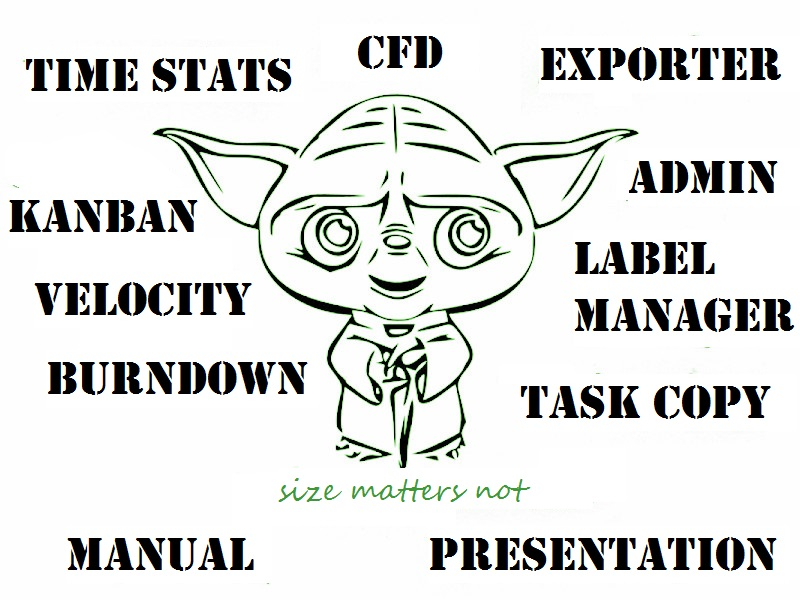
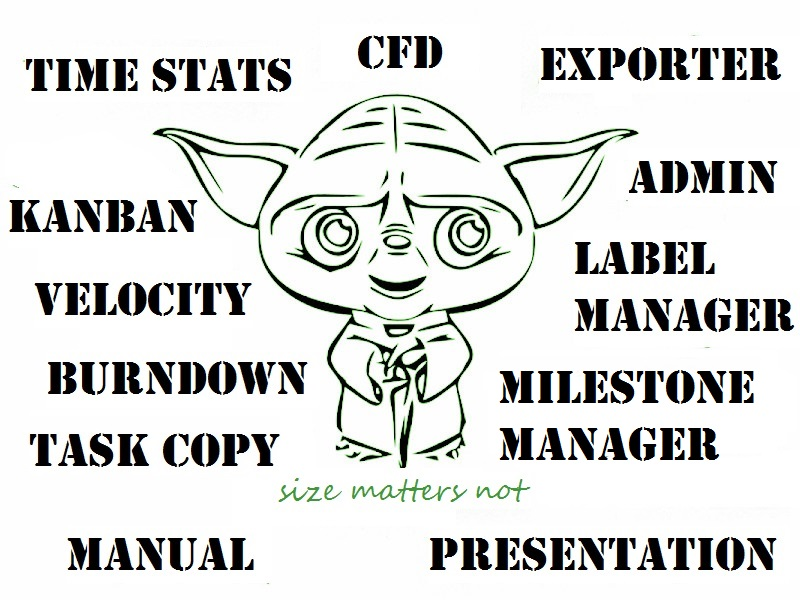
#5 Add milestone manager to landing page, menu, manual

Changed region(s): [[0.625, 0.6, 0.9688, 0.78], [0.0312, 0.72, 0.3438, 0.78]]

diff --git a/docs/index.html b/docs/index.html
@@ -37,9 +37,10 @@ OR IN CONNECTION WITH THE SOFTWARE OR THE USE OR OTHER DEALINGS IN THE SOFTWARE.
     <area alt="" title="Time Stats" href="yoda-time-stats.html" shape="rect" coords="18,40,281,112" />
     <area alt="" title="CFD" href="yoda-cfd.html" shape="rect" coords="312,12,479,84" />
     <area alt="" title="Label Manager" href="yoda-label-manager.html" shape="rect" coords="568,230,793,352" />
+    <area alt="" title="Milestone Manager" href="yoda-milestone-manager.html" shape="rect" coords="497,359,766,473" />
     <area alt="" title="Velocity" href="yoda-velocity.html" shape="rect" coords="29,274,254,325" />
     <area alt="" title="Exporter" href="yoda-exporter.html" shape="rect" coords="527,30,769,108" />
-    <area alt="" title="Task Copy" href="yoda-copy-tasks.html" shape="rect" coords="503,357,800,449" />
+    <area alt="" title="Task Copy" href="yoda-copy-tasks.html" shape="rect" coords="24,424,285,479" />
     <area alt="" title="Kanban" href="yoda-kanban.html" shape="rect" coords="3,191,198,238" />
     <area alt="" title="Manual" href="MANUAL.html" shape="rect" coords="90,524,281,595" />
     <area alt="" title="Admin" href="yoda-admin.html" shape="rect" coords="612,152,784,220" />

diff --git a/docs/yoda-utils.js b/docs/yoda-utils.js
@@ -1023,6 +1023,7 @@ var yoda = (function() {
 			$("#yodamenu").append('<a href="yoda-burndown.html">Burndown Report</a>');
 			$("#yodamenu").append('<a href="yoda-velocity.html">Velocity Report</a>');
 			$("#yodamenu").append('<a href="yoda-kanban.html">Kanban Board</a>');
+			$("#yodamenu").append('<a href="yoda-milestone-manager.html">Milestone Manager</a>');
 			$("#yodamenu").append('<a href="yoda-label-manager.html">Label Manager</a>');
 			$("#yodamenu").append('<a href="yoda-exporter.html">Issue Exporter</a>');
 			$("#yodamenu").append('<a href="yoda-copy-tasks.html">Task Copier</a>');

diff --git a/docs/MANUAL.md b/docs/MANUAL.md
@@ -30,6 +30,7 @@ _________
 	- [CFD Chart](#cfd-chart)
 - [Issue Tools](#issue-tools)
 	- [Kanban Board](#kanban-board)
+	- [Milestone Manager](#milestone-manager)
 	- [Label Manager](#label-manager)
 	- [Issue Exporter](#issue-exporter)
 	- [Task Copier](#task-copier)
@@ -257,6 +258,17 @@ The Kanban Board is available [here](yoda-kanban.html).
 [Example](yoda-kanban.html?owner=HewlettPackard&repolist=yoda-demo&milestonelist=Sprint%201,Sprint%202&columns=[Defect]open:T1%20-%20Defect,[Enhancement]open:T2%20-%20Enhancement,[Task]open:T3%20-%20Task,[Other]open:*,[Closed]closed:*).
 
 [Example - typings repo](yoda-kanban.html?owner=typings&repolist=typings&estimate=noissues&milestonelist=All%20milestones&columns=[Bug]open:bug,[Enhancement]open:enhancement,[Question]open:question,[Other]open:*,[Closed]closed:*)
+
+
+## Milestone Manager
+
+In order to support sprint planning and tracking across issues into separate repositories, it is necessary to ensure consistency between the milestones in those repositories. Also, it is helpful to have a tool to create these milestones for you with a single input. The Milestone Manager does just this.
+
+It is a very simple tool. You select the repositories that will be involved in the sprint. Then you may fill in common data (description, start date, due date, and optionally a burndown due date). Press "Create Milestones" and the Milestone Manager will create an instance of the milestone into each repository.
+
+Similarly, you can change those common fields easily across all the repos. First make the change into the milestone for one of the repos, then press "Copy/Update" to replicate to the milestones in the other repos. If the milestone does not exist in one of the selected repositories, it will be created.
+
+The Milestone Manager is available [here](yoda-milestone-manager.html).
 
 
 ## Label Manager
